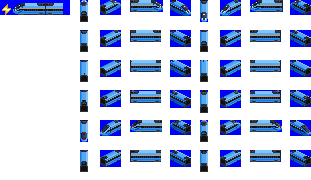
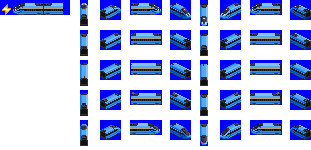
Change: Enhance graphics & power for KTX-EUM
변경: KTX-이음 그래픽 및 템플릿 변경
변경: KTX-이음의 기관차 출력을 8800kW에서 6080kW로 변경

diff --git a/docs/download_page/english.html b/docs/download_page/english.html
@@ -255,7 +255,7 @@
         <td class="speed">260 km/h</td>
         <td class="speed_designed">286 km/h</td>
         <td class="capacity">76</td>
-        <td class="power">8800 kW</td>
+        <td class="power">6080 kW</td>
         <td class="weight">60 t</td>
         <td class="introduction">2019</td>
     </tr>

diff --git a/docs/download_page/japanese.html b/docs/download_page/japanese.html
@@ -255,7 +255,7 @@
         <td class="speed">260 km/h</td>
         <td class="speed_designed">286 km/h</td>
         <td class="capacity">76</td>
-        <td class="power">8800 kW</td>
+        <td class="power">6080 kW</td>
         <td class="weight">60 t</td>
         <td class="introduction">2019</td>
     </tr>

diff --git a/docs/download_page/korean.html b/docs/download_page/korean.html
@@ -255,7 +255,7 @@
         <td class="speed">260 km/h</td>
         <td class="speed_designed">286 km/h</td>
         <td class="capacity">76</td>
-        <td class="power">8800 kW</td>
+        <td class="power">6080 kW</td>
         <td class="weight">60 t</td>
         <td class="introduction">2019</td>
     </tr>

diff --git a/src/spec.py b/src/spec.py
@@ -41,7 +41,7 @@ trainList['EEC']                = 110,    110,    10,     4,            56,     
 trainList['KTX1N']              = 305,    320,    20,     10,           0,       10,           13200,  68,     (2004, 4, 1)
 trainList['KTX2N']              = 305,    320,    20,     10,           0,       10,           8800,   68,     (2009, 1, 1)
 trainList['SRT']                = 305,    320,    20,     10,           0,       10,           8800,   68,     (2015, 1, 1)
-trainList['EUM']                = 260,    286,    20,     10,           76,      10,           8800,   60,     (2019, 1, 1)
+trainList['EUM']                = 260,    286,    20,     10,           76,      10,           6080,   60,     (2019, 1, 1)
 trainList['KTX3N']              = 319,    352,    20,     10,           76,      10,           9120,   55,     (2022, 4, 1)
 trainList['MAUM']               = 150,    165,    10,     5,            62,      10,           2000,   51,     (2023, 9, 1)
 trainList['KTX_wagon']          = 300,    300,    None,   8,            58,      10,           0,      20,     (2004, 1, 1)

diff --git a/docs/download_page/english.md b/docs/download_page/english.md
@@ -255,7 +255,7 @@
         <td class="speed">260 km/h</td>
         <td class="speed_designed">286 km/h</td>
         <td class="capacity">76</td>
-        <td class="power">8800 kW</td>
+        <td class="power">6080 kW</td>
         <td class="weight">60 t</td>
         <td class="introduction">2019</td>
     </tr>

diff --git a/docs/download_page/japanese.md b/docs/download_page/japanese.md
@@ -255,7 +255,7 @@
         <td class="speed">260 km/h</td>
         <td class="speed_designed">286 km/h</td>
         <td class="capacity">76</td>
-        <td class="power">8800 kW</td>
+        <td class="power">6080 kW</td>
         <td class="weight">60 t</td>
         <td class="introduction">2019</td>
     </tr>

diff --git a/docs/download_page/korean.md b/docs/download_page/korean.md
@@ -255,7 +255,7 @@
         <td class="speed">260 km/h</td>
         <td class="speed_designed">286 km/h</td>
         <td class="capacity">76</td>
-        <td class="power">8800 kW</td>
+        <td class="power">6080 kW</td>
         <td class="weight">60 t</td>
         <td class="introduction">2019</td>
     </tr>

diff --git a/docs/changelog.md b/docs/changelog.md
@@ -1,3 +1,8 @@
+2.7.1+
+-----
+ * 변경: KTX-이음 그래픽 및 템플릿 변경
+ * 변경: KTX-이음의 기관차 출력을 8800kW에서 6080kW로 변경 
+
 2.7.1
 -----
  * 추가: KTX-청룡 추가 [#469]
